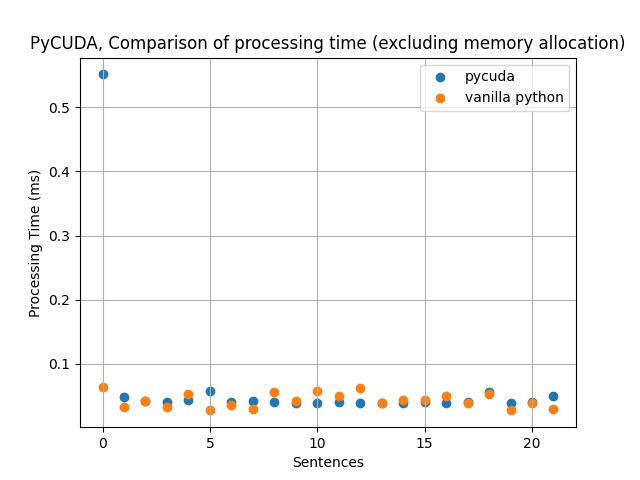
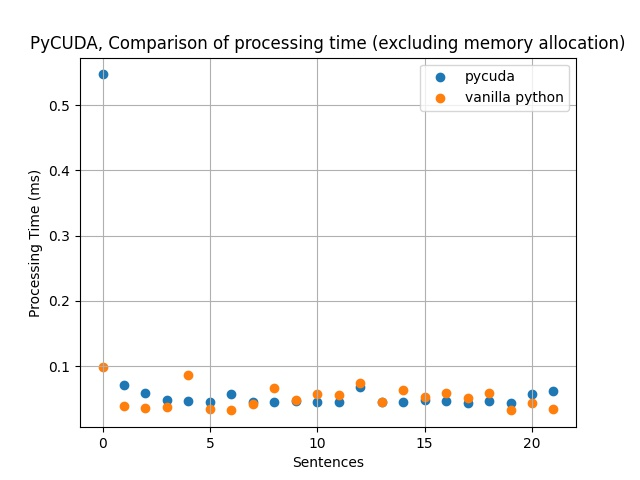
updated-time-methods

diff --git a/e4750/hw2/assignment2_pycuda_xs2445.py b/e4750/hw2/assignment2_pycuda_xs2445.py
@@ -95,14 +95,16 @@ class cudaCipher:
         
         # Record execution time and execute operation.
         start_cpt.record()
+        # s = time.time()
         func_dcp(sentence_d, decrypted_d, np.int32(length), block=BlockDim, grid=GridDim)
+        # e = time.time()
         end_cpt.record()
         
         # Wait for the event to complete
-        end.synchronize()
-        decrypted = decrypted_d.get()
+        end_cpt.synchronize()
         end_alc.record()
         time_cpt = start_cpt.time_till(end_cpt)
+        decrypted = decrypted_d.get()
         time_alc = start_alc.time_till(end_alc)
 
         # Fetch result from device to host
@@ -117,6 +119,7 @@ class cudaCipher:
         # print(type(decrypted))
 
         return decrypted[0], time_cpt
+        # return decrypted[0], (e-s)*1e3
     
     def pyCipher(self, sentence):
         """
@@ -178,6 +181,8 @@ if __name__ == '__main__':
     # post process the string(s) if required
     tc = np.array(tc)
     tp = np.array(tp)
+    # np.save('time_time.npy',tc)
+
 
     # Execution time
     print("CUDA output cracked in ", tc.mean(), " milliseconds per sentence.")
@@ -212,7 +217,7 @@ if __name__ == '__main__':
         plt.xlabel('Sentences')
         plt.ylabel('Processing Time (ms)')
         # plt.show()
-        plt.savefig('comparison_cuda_cpt.jpg')
+        # plt.savefig('comparison_cuda_cpt.jpg')
 
 
 # if __name__ == '__main__':
